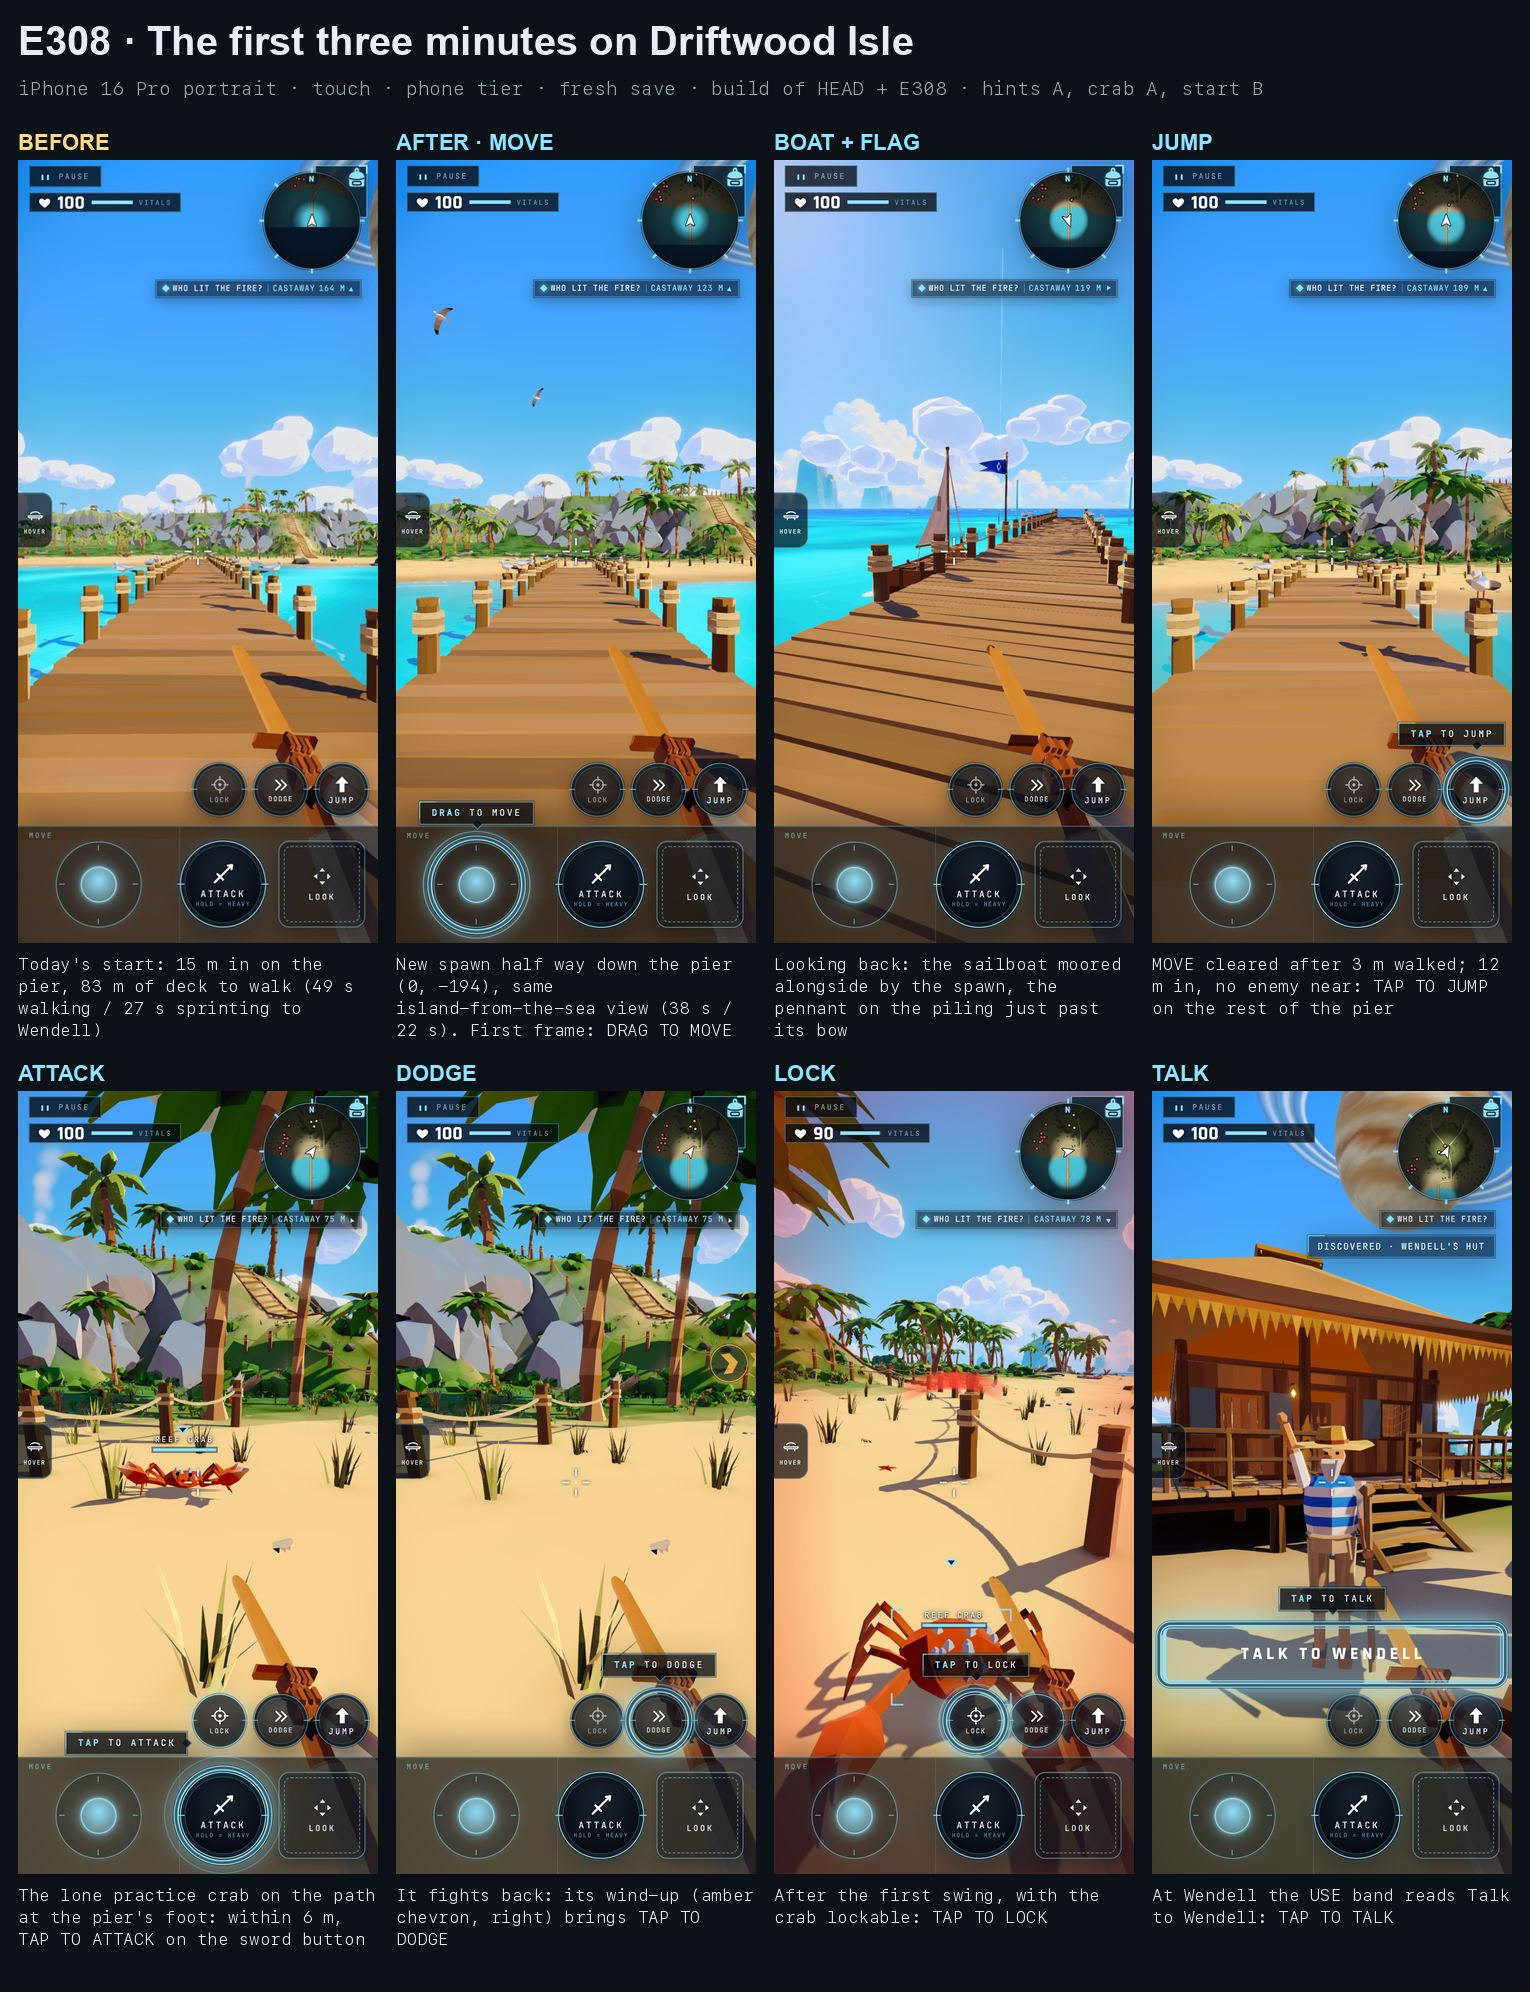
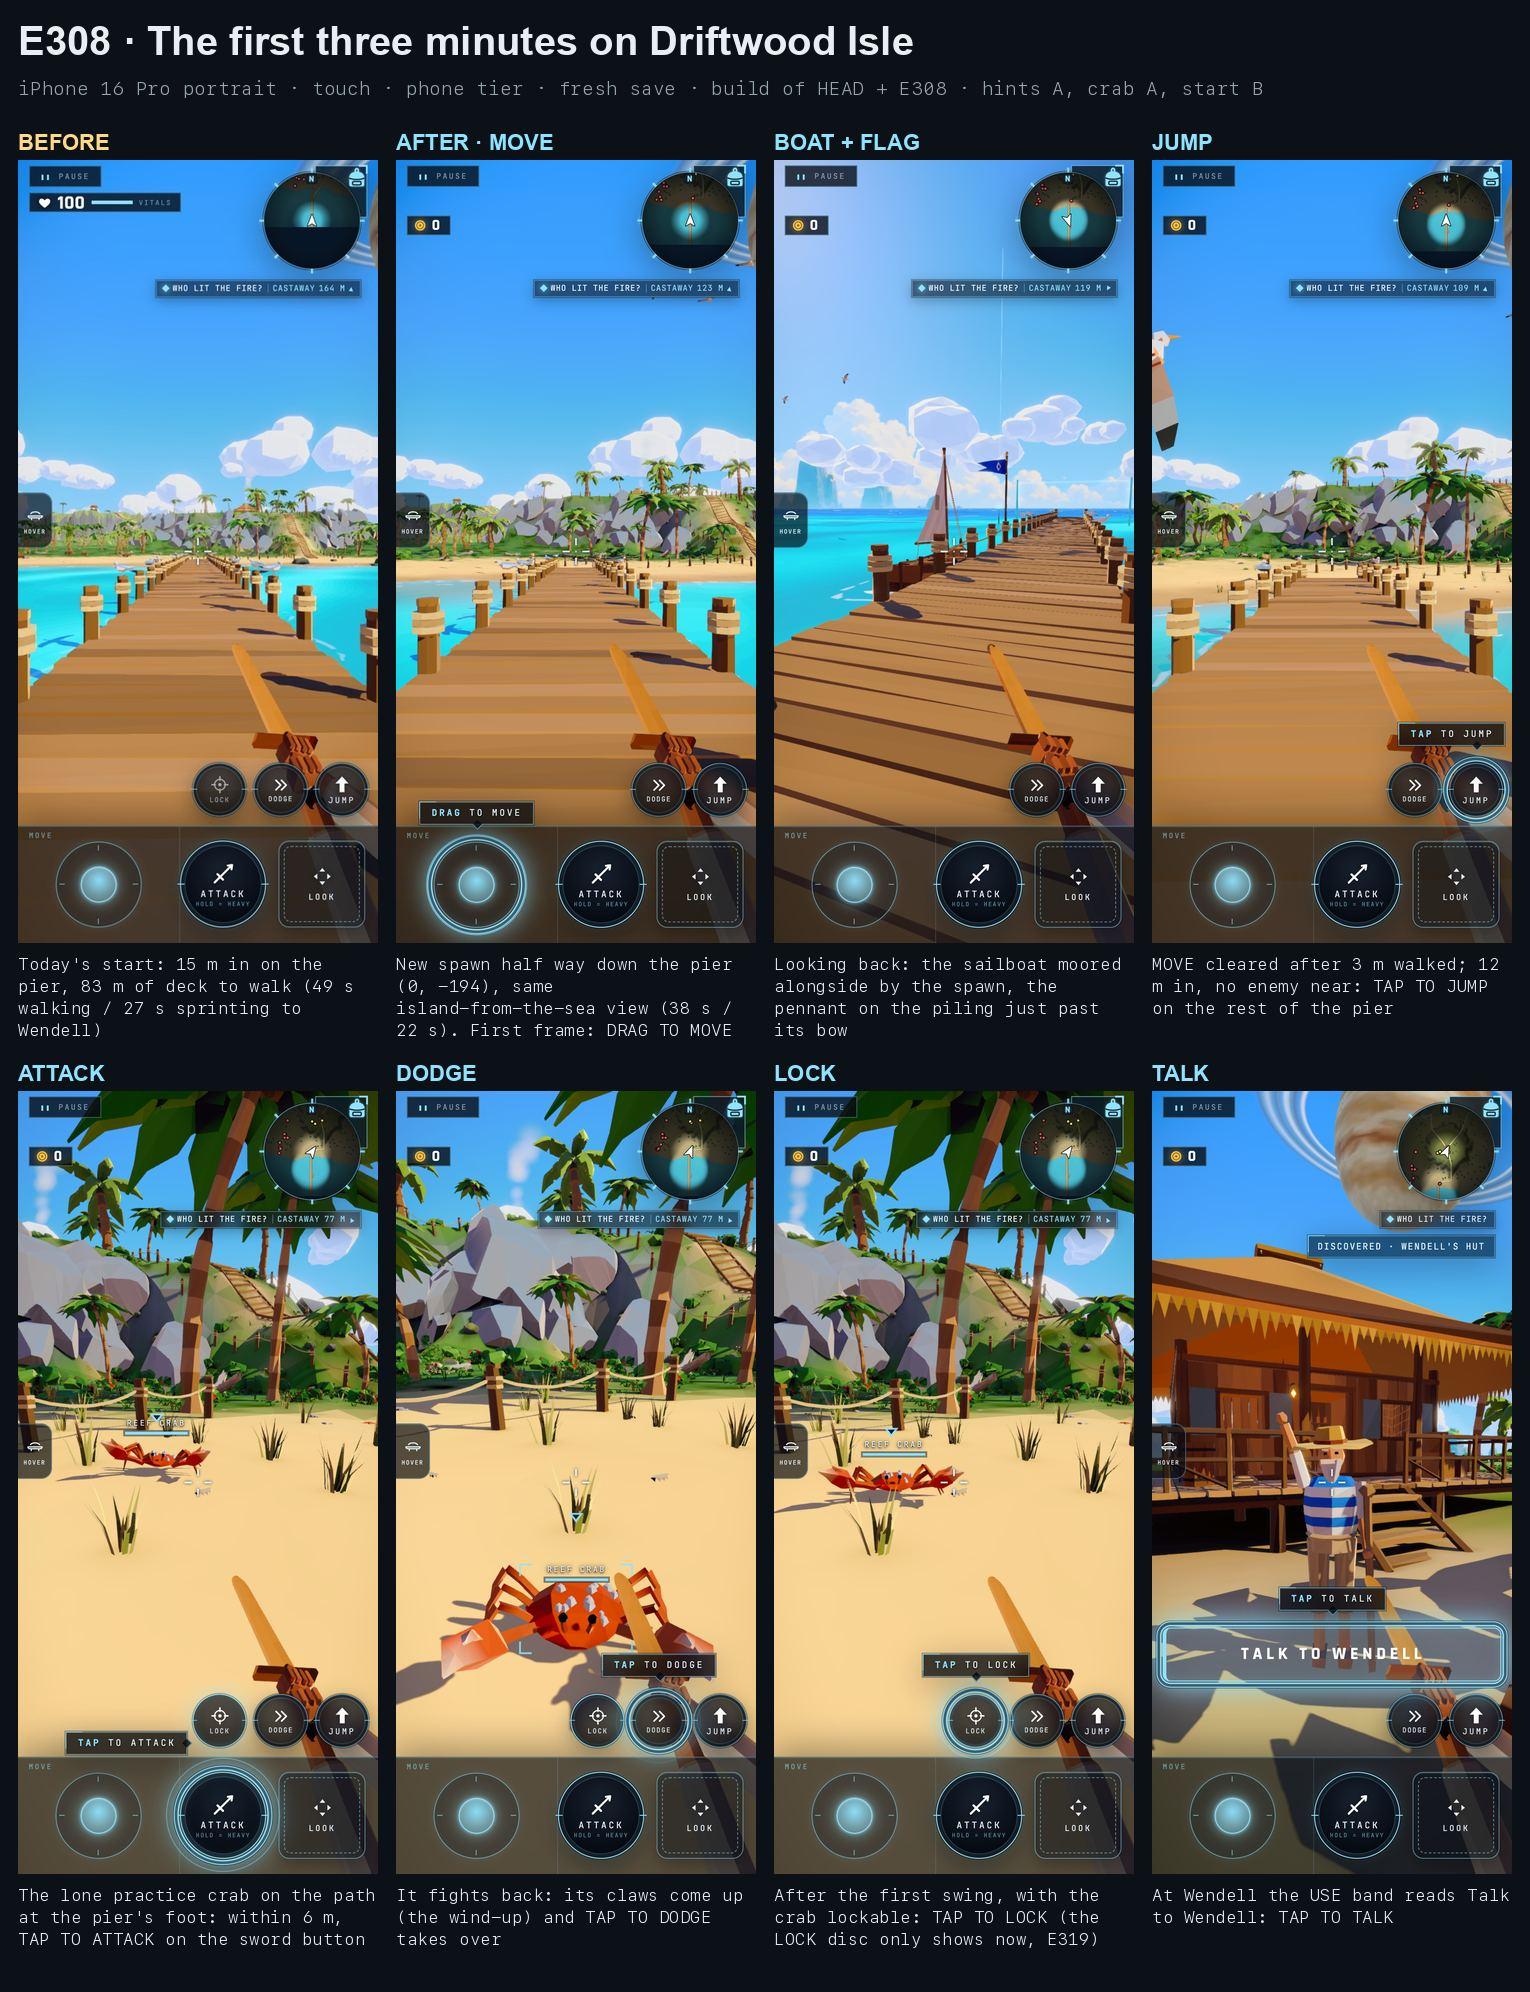
E308: a first-time hint never points at a control you cannot see — E319's idle LOCK disc (opacity 0, visibility hidden) counts as off screen; sheet re-shot on the current HUD
FirstHints.shown(): a box on screen AND not faded out; the anchor and the tag's obstacles both use it. Checked on a build
of d82c6cc9: at the spawn .lock-idle is on and no LOCK hint shows; by the crab TAP TO LOCK shows only while the disc is up.

Claude-Session: https://claude.ai/code/session_01RUTMXusCT4DQ7jBQdY4bnH

diff --git a/src/ui/FirstHints.ts b/src/ui/FirstHints.ts
@@ -80,6 +80,14 @@ function loadSeen(): Set<HintControl> {
 }
 
 interface Box { l: number; t: number; r: number; b: number }
+/** drawn and seen: a box on screen, not faded out (E319's idle LOCK disc keeps its box but goes `opacity: 0; visibility:
+ *  hidden` while nothing is lockable) — a hint never points at, or steps around, a control the player cannot see */
+function shown(el: HTMLElement): boolean {
+  const r = el.getBoundingClientRect();
+  if (r.width <= 0 || r.height <= 0) return false;
+  const cs = getComputedStyle(el);
+  return cs.visibility !== 'hidden' && Number.parseFloat(cs.opacity) > 0.05;
+}
 const overlaps = (a: Box, b: Box): boolean => a.l < b.r && a.r > b.l && a.t < b.b && a.b > b.t;
 
 export class FirstHints {
@@ -173,9 +181,7 @@ export class FirstHints {
   private anchor(c: HintControl): HTMLElement | null | undefined {
     if (!this.opts.touch) return null;
     const el = document.querySelector<HTMLElement>(`.ws-touch ${ANCHOR[c]}`);
-    if (el === null) return undefined;
-    const r = el.getBoundingClientRect();
-    return r.width > 0 && r.height > 0 ? el : undefined;
+    return el !== null && shown(el) ? el : undefined;
   }
 
   private show(t: HintTrigger | null): void {
@@ -209,9 +215,9 @@ export class FirstHints {
     const cx = x0 + w / 2;
     const obstacles: Box[] = [];
     for (const o of document.querySelectorAll<HTMLElement>(`.ws-touch :is(${OBSTACLES})`)) {
-      if (o === el || o.contains(el)) continue;
+      if (o === el || o.contains(el) || !shown(o)) continue;
       const b = o.getBoundingClientRect();
-      if (b.width > 0) obstacles.push({ l: b.left - hud.left - 4, t: b.top - hud.top - 4, r: b.right - hud.left + 4, b: b.bottom - hud.top + 4 });
+      obstacles.push({ l: b.left - hud.left - 4, t: b.top - hud.top - 4, r: b.right - hud.left + 4, b: b.bottom - hud.top + 4 });
     }
     const clampX = (l: number): number => Math.max(MARGIN, Math.min(W - MARGIN - tw, l));
     // candidates: centred over the control, then slid left / right clear of whatever it covered, then a row higher
